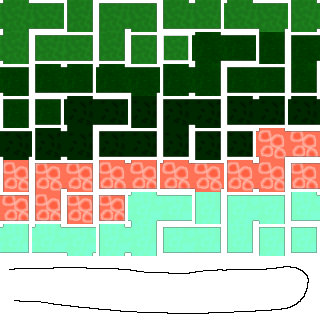
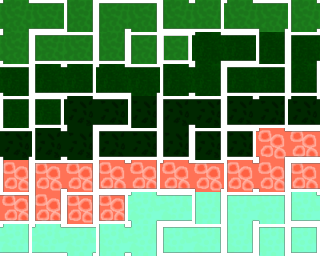
Texturen überarbeitet. Kleinigkeiten korrigiert.

diff --git a/README.md b/README.md
@@ -1,4 +1,4 @@
-# Honki Tonks Zivilisationen - Version: 0.05.7545
+# Honki Tonks Zivilisationen - Version: 0.05.7595
 Der Code meines 4X-Rundenstrategiespiels.
 Geschrieben in Ada 2022 unter Verwendung der Ada Standardbibliothek, der [ASFML 2.5.4](https://github.com/mgrojo/ASFML), der [CSFML 2.5.1](https://github.com/SFML/CSFML) und der [SFML 2.5.1](https://github.com/SFML/SFML). Nur unter Linux intensiv getestet, sollte aber auch unter anderen Betriebssystemen problemlos funktionieren.
 
